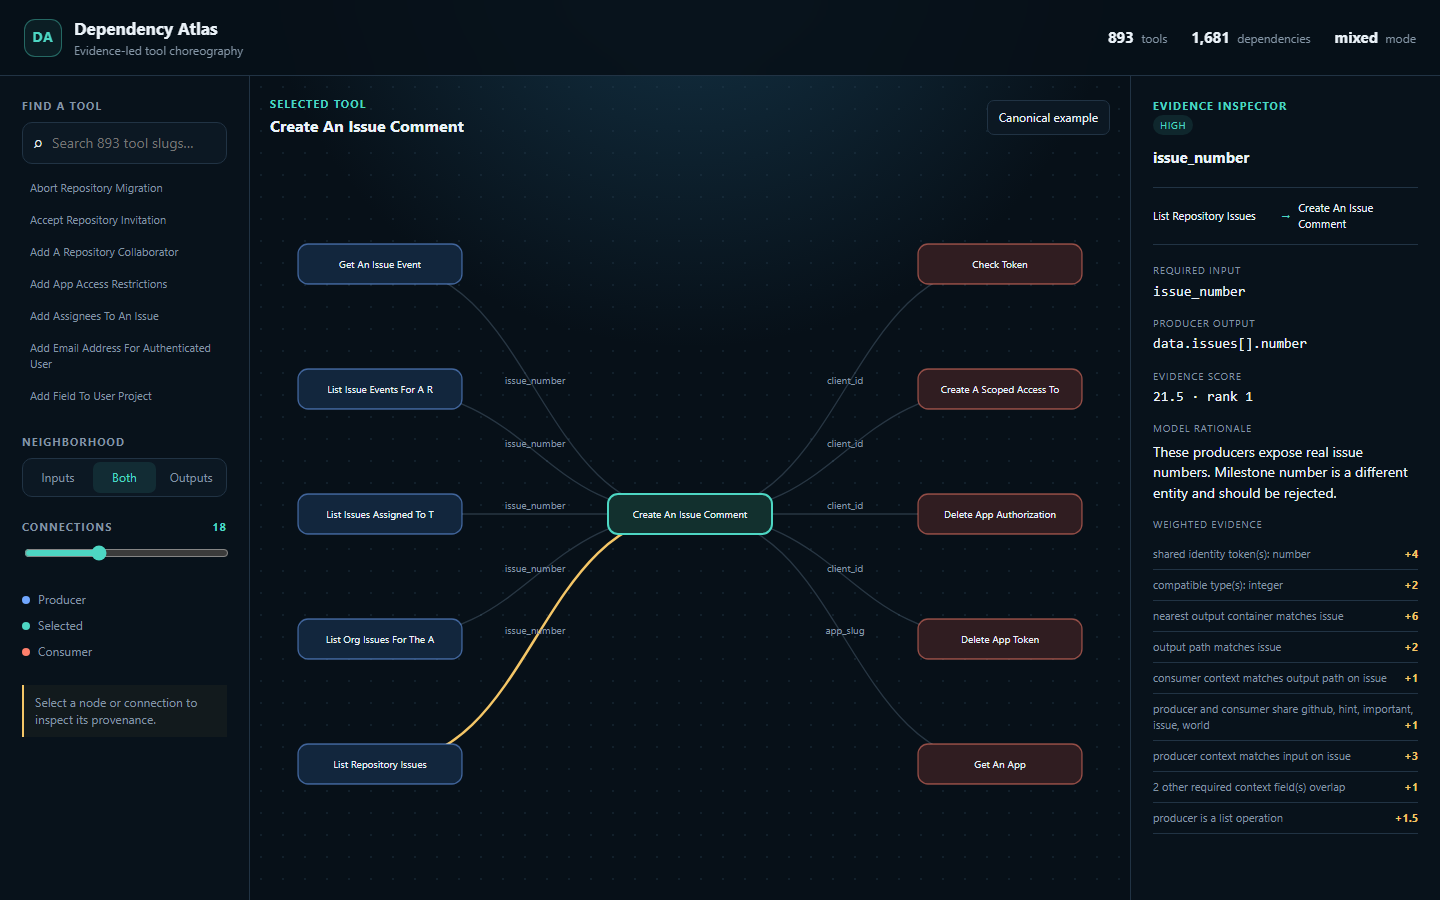
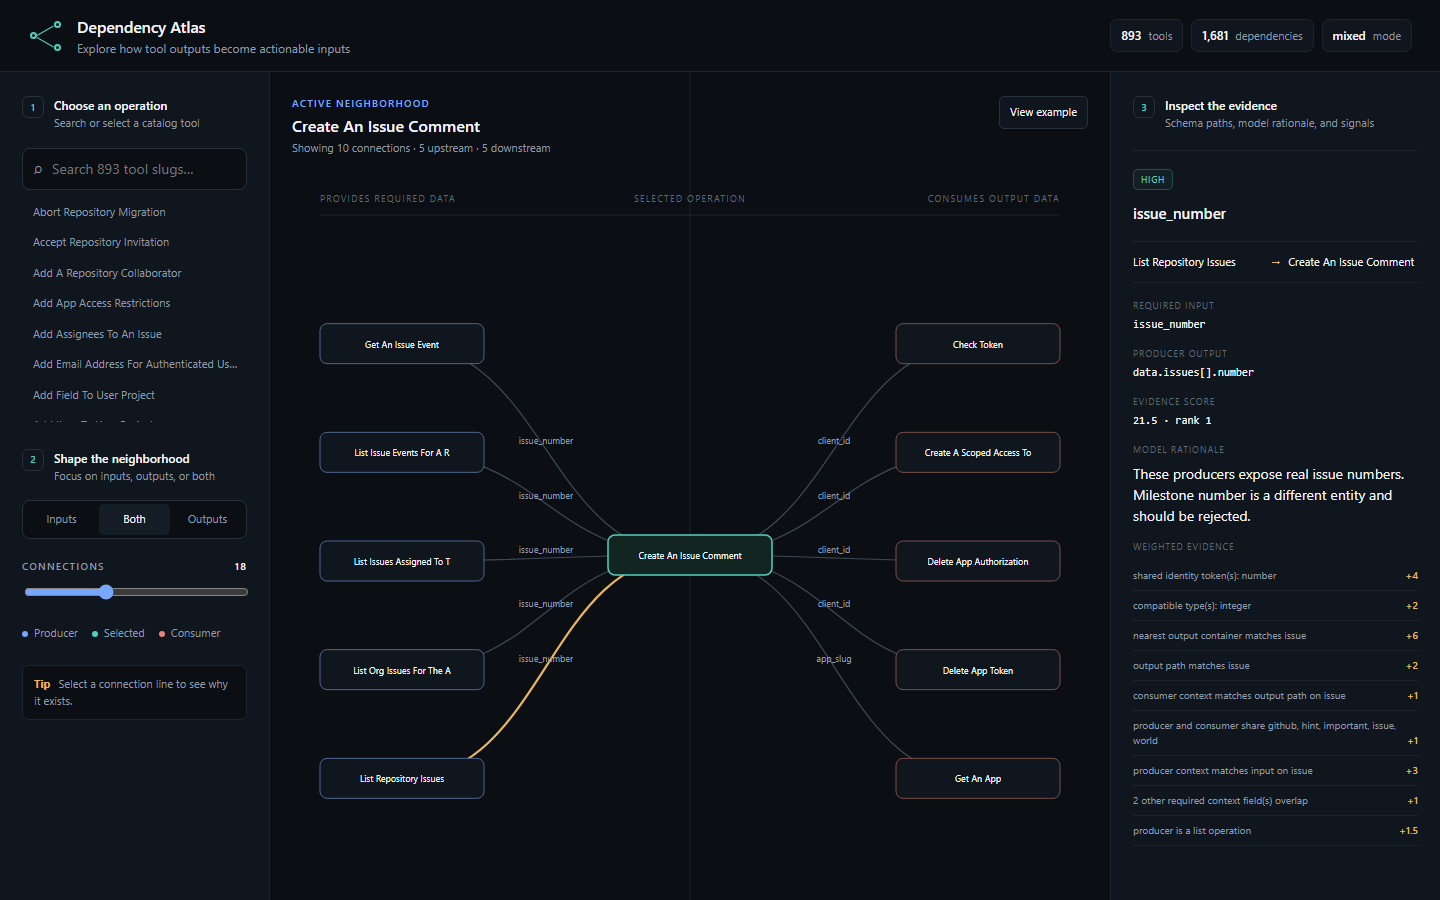
feat: refine graph explorer interaction and visual hierarchy

diff --git a/visualization/styles.css b/visualization/styles.css
@@ -1,1 +1,1 @@
-:root{color-scheme:dark;--bg:#071018;--panel:#0c1823;--panel2:#101f2c;--line:#213344;--text:#eaf2f8;--muted:#8395a5;--teal:#4dd6c3;--coral:#ff806c;--blue:#71a7ff;--gold:#f4c667}*{box-sizing:border-box}body{margin:0;background:radial-gradient(circle at 48% -10%,#15364a 0,transparent 35%),var(--bg);color:var(--text);font:14px/1.45 Inter,ui-sans-serif,system-ui,sans-serif}.shell{min-height:100vh}.topbar{height:76px;display:flex;align-items:center;justify-content:space-between;padding:0 24px;border-bottom:1px solid var(--line);background:rgba(7,16,24,.88);backdrop-filter:blur(18px)}.brand{display:flex;align-items:center;gap:12px}.mark{width:38px;height:38px;display:grid;place-items:center;border:1px solid #4dd6c366;border-radius:11px;background:#4dd6c314;color:var(--teal);font-weight:700;letter-spacing:.06em}.brand h1{font-size:17px;margin:0;font-weight:650}.brand p{margin:1px 0 0;color:var(--muted);font-size:12px}.metrics{display:flex;gap:24px;color:var(--muted);font-size:12px}.metrics b{color:var(--text);font-size:15px;margin-right:4px}.workspace{display:grid;grid-template-columns:250px minmax(420px,1fr) 310px;min-height:calc(100vh - 76px)}.rail,.inspector{padding:22px;border-right:1px solid var(--line);background:#09131caa}.inspector{border-right:0;border-left:1px solid var(--line)}label,.section-title,.eyebrow{display:block;color:var(--muted);font-size:11px;font-weight:650;text-transform:uppercase;letter-spacing:.1em;margin:0 0 8px}.search-wrap{display:flex;align-items:center;gap:8px;border:1px solid var(--line);border-radius:10px;background:var(--panel);padding:0 11px}.search-wrap:focus-within{border-color:var(--teal)}input{font:inherit;color:var(--text)}#search{width:100%;height:40px;border:0;outline:0;background:transparent}.suggestions{margin:8px 0 24px;max-height:238px;overflow:auto}.suggestions button{display:block;width:100%;border:0;background:transparent;color:var(--muted);padding:8px;text-align:left;font:inherit;font-size:11px;border-radius:7px;overflow:hidden;text-overflow:ellipsis}.suggestions button:hover,.suggestions button:focus{background:var(--panel2);color:var(--text)}.section-title{margin-top:18px}.segmented{display:grid;grid-template-columns:repeat(3,1fr);gap:3px;padding:3px;border:1px solid var(--line);border-radius:10px;background:var(--panel);margin-bottom:22px}.segmented button,#reset{border:0;border-radius:7px;padding:7px;background:transparent;color:var(--muted);font:inherit;font-size:12px;cursor:pointer}.segmented button.active{background:#4dd6c31b;color:var(--teal)}#limit{width:100%;accent-color:var(--teal)}#limit-value{float:right;color:var(--teal)}.legend{display:grid;gap:9px;margin:24px 0;color:var(--muted);font-size:12px}.dot{display:inline-block;width:8px;height:8px;border-radius:50%;margin-right:8px}.producer{background:var(--blue)}.focus{background:var(--teal)}.consumer{background:var(--coral)}.tip{border-left:2px solid var(--gold);padding:9px 11px;color:var(--muted);font-size:12px;background:#f4c6670b}.stage{position:relative;overflow:hidden;padding:20px}.stage:before{content:"";position:absolute;inset:0;background-image:radial-gradient(#294154 1px,transparent 1px);background-size:22px 22px;opacity:.32;pointer-events:none}.stage-heading{position:relative;display:flex;align-items:center;justify-content:space-between;z-index:2}.stage h2{margin:2px 0;font-size:16px;max-width:650px;overflow:hidden;text-overflow:ellipsis;white-space:nowrap}.eyebrow{margin:0;color:var(--teal)}#reset{border:1px solid var(--line);background:var(--panel);color:var(--text);padding:8px 11px}#graph{position:relative;width:100%;height:calc(100vh - 150px);min-height:520px}.edge{fill:none;stroke:#59718466;stroke-width:1.4;marker-end:url(#arrow);cursor:pointer}.edge:hover,.edge.selected{stroke:var(--gold);stroke-width:2.5}.edge-label{fill:var(--muted);font-size:10px;pointer-events:none}.node rect{stroke-width:1.3;rx:10}.node text{fill:var(--text);font-size:10px;pointer-events:none}.node{cursor:pointer}.node.producer-node rect{fill:#12263d;stroke:#71a7ff88}.node.consumer-node rect{fill:#301d21;stroke:#ff806c88}.node.focus-node rect{fill:#12302e;stroke:var(--teal);stroke-width:2}.node:hover rect{filter:brightness(1.25)}#empty{position:absolute;inset:45% 0 auto;text-align:center;color:var(--muted)}.inspector h3{margin:12px 0 6px;font-size:15px;overflow-wrap:anywhere}.inspector p{margin:6px 0}.muted{color:var(--muted)}.flow{display:grid;grid-template-columns:1fr auto 1fr;align-items:center;gap:8px;margin:18px 0;padding:12px 0;border-block:1px solid var(--line);font-size:11px;overflow-wrap:anywhere}.flow i{color:var(--teal);font-style:normal}.field{margin:14px 0}.field span{display:block;color:var(--muted);font-size:10px;text-transform:uppercase;letter-spacing:.08em}.field code{display:block;margin-top:4px;color:var(--text);overflow-wrap:anywhere}.badge{display:inline-block;padding:3px 7px;border-radius:999px;background:#4dd6c31b;color:var(--teal);font-size:10px;text-transform:uppercase;letter-spacing:.06em}.evidence{margin:8px 0 0;padding:0;list-style:none}.evidence li{padding:7px 0;border-bottom:1px solid var(--line);color:var(--muted);font-size:11px}.evidence b{float:right;color:var(--gold)}@media(max-width:980px){.workspace{grid-template-columns:220px 1fr}.inspector{grid-column:1/-1;border-left:0;border-top:1px solid var(--line)}.metrics{display:none}}@media(max-width:680px){.workspace{display:block}.rail{border-right:0;border-bottom:1px solid var(--line)}.stage{min-height:620px}.topbar{padding:0 14px}#graph{height:560px}.inspector{border-left:0}}
+:root{color-scheme:dark;--bg:#0b0f14;--surface:#10161d;--raised:#151d26;--hover:#1a2530;--border:#27313b;--border-soft:#1c252e;--text:#f2f5f7;--muted:#8e9aa6;--faint:#5e6a75;--blue:#77a7ff;--teal:#55cfbd;--amber:#e8b65d;--red:#e98279}*{box-sizing:border-box}body{margin:0;background:var(--bg);color:var(--text);font:14px/1.5 Inter,ui-sans-serif,-apple-system,BlinkMacSystemFont,"Segoe UI",sans-serif}.shell{min-height:100vh}.topbar{height:72px;display:flex;align-items:center;justify-content:space-between;padding:0 28px;border-bottom:1px solid var(--border-soft);background:var(--bg)}.brand{display:flex;align-items:center;gap:13px}.mark{position:relative;width:36px;height:36px}.mark i{position:absolute;width:7px;height:7px;border:2px solid var(--teal);border-radius:50%}.mark i:nth-child(1){left:2px;top:14px}.mark i:nth-child(2){right:3px;top:3px}.mark i:nth-child(3){right:3px;bottom:3px}.mark:before,.mark:after{content:"";position:absolute;left:9px;width:19px;height:1px;background:var(--teal);transform-origin:left}.mark:before{top:17px;transform:rotate(-30deg)}.mark:after{top:19px;transform:rotate(30deg)}.brand h1{font-size:16px;margin:0;font-weight:600;letter-spacing:-.01em}.brand p{margin:0;color:var(--muted);font-size:12px}.metrics{display:flex;gap:8px}.metrics span{padding:6px 10px;border:1px solid var(--border-soft);border-radius:7px;color:var(--muted);font-size:11px;background:var(--surface)}.metrics b{color:var(--text);font-size:12px;margin-right:4px;font-weight:600}.workspace{display:grid;grid-template-columns:270px minmax(440px,1fr) 330px;min-height:calc(100vh - 72px)}.rail,.inspector{padding:24px 22px;border-right:1px solid var(--border-soft);background:var(--surface)}.inspector{border-right:0;border-left:1px solid var(--border-soft)}.step{display:flex;align-items:flex-start;gap:10px;margin-bottom:16px}.step b{flex:0 0 22px;height:22px;display:grid;place-items:center;border:1px solid var(--border);border-radius:6px;color:var(--teal);font-size:10px;font-weight:600}.step span{display:grid;gap:1px}.step strong{font-size:12px;font-weight:600}.step small{font-size:11px;color:var(--muted)}.step.compact{margin-top:27px}.inspector-step{padding-bottom:18px;border-bottom:1px solid var(--border-soft)}label,.section-title,.eyebrow{display:block;color:var(--muted);font-size:10px;font-weight:600;text-transform:uppercase;letter-spacing:.12em;margin:0 0 8px}.sr-only{position:absolute;width:1px;height:1px;padding:0;margin:-1px;overflow:hidden;clip:rect(0,0,0,0);white-space:nowrap;border:0}.search-wrap{display:flex;align-items:center;gap:8px;border:1px solid var(--border);border-radius:8px;background:var(--bg);padding:0 11px;transition:border-color .16s,box-shadow .16s}.search-wrap:focus-within{border-color:var(--blue);box-shadow:0 0 0 3px #77a7ff18}.search-wrap span{color:var(--muted)}input{font:inherit;color:var(--text)}#search{width:100%;height:40px;border:0;outline:0;background:transparent}.suggestions{margin:7px 0 20px;max-height:225px;overflow:auto}.suggestions button{display:block;width:100%;border:0;border-left:2px solid transparent;background:transparent;color:var(--muted);padding:7px 9px;text-align:left;font:inherit;font-size:11px;overflow:hidden;text-overflow:ellipsis;white-space:nowrap;cursor:pointer}.suggestions button:hover,.suggestions button:focus{border-left-color:var(--blue);background:var(--hover);color:var(--text)}.segmented{display:grid;grid-template-columns:repeat(3,1fr);gap:2px;padding:3px;border:1px solid var(--border);border-radius:8px;background:var(--bg);margin-bottom:20px}.segmented button,#reset{border:0;border-radius:5px;padding:7px;background:transparent;color:var(--muted);font:inherit;font-size:11px;cursor:pointer;transition:background .16s,color .16s}.segmented button.active{background:var(--raised);color:var(--text)}#limit{width:100%;accent-color:var(--blue)}#limit-value{float:right;color:var(--text)}.legend{display:flex;flex-wrap:wrap;gap:8px 14px;margin:20px 0;color:var(--muted);font-size:11px}.dot{display:inline-block;width:6px;height:6px;border-radius:50%;margin-right:6px}.producer{background:var(--blue)}.focus{background:var(--teal)}.consumer{background:var(--red)}.tip{margin-top:24px;padding:10px 11px;border:1px solid var(--border-soft);border-radius:7px;color:var(--muted);font-size:11px;background:var(--bg)}.tip b{color:var(--amber);margin-right:5px}.stage{position:relative;overflow:hidden;padding:24px 22px;background:linear-gradient(90deg,transparent 49.9%,var(--border-soft) 50%,transparent 50.1%)}.stage-heading{position:relative;display:flex;align-items:flex-start;justify-content:space-between;z-index:2}.stage h2{margin:3px 0 0;font-size:16px;font-weight:600;max-width:650px;overflow:hidden;text-overflow:ellipsis;white-space:nowrap}.stage-heading p{margin:2px 0;color:var(--muted);font-size:11px}.eyebrow{margin:0;color:var(--blue)}#reset{border:1px solid var(--border);background:var(--surface);color:var(--text);padding:7px 10px}#reset:hover{background:var(--hover)}#graph{position:relative;width:100%;height:calc(100vh - 152px);min-height:520px}.lane-label{fill:var(--faint);font-size:9px;letter-spacing:.14em;text-transform:uppercase}.lane-rule{stroke:var(--border-soft);stroke-width:1}.edge{fill:none;stroke:#3d4a56;stroke-width:1.2;marker-end:url(#arrow);cursor:pointer;transition:stroke .15s,stroke-width .15s}.edge:hover,.edge.selected{stroke:var(--amber);stroke-width:2.2}.edge-label{fill:var(--muted);font-size:9px;pointer-events:none}.node rect{stroke-width:1;rx:7;transition:fill .15s,stroke .15s}.node text{fill:var(--text);font-size:9px;pointer-events:none}.node{cursor:pointer}.node.producer-node rect{fill:var(--surface);stroke:#4d6790}.node.consumer-node rect{fill:var(--surface);stroke:#7d4d4a}.node.focus-node rect{fill:#122521;stroke:var(--teal);stroke-width:1.5}.node:hover rect{fill:var(--hover);stroke:var(--text)}#empty{position:absolute;inset:46% 0 auto;text-align:center;color:var(--muted)}.inspector h3{margin:12px 0 6px;font-size:15px;font-weight:600;overflow-wrap:anywhere}.inspector p{margin:6px 0}.muted{color:var(--muted)}.flow{display:grid;grid-template-columns:1fr auto 1fr;align-items:center;gap:8px;margin:16px 0;padding:12px 0;border-block:1px solid var(--border-soft);font-size:11px;overflow-wrap:anywhere}.flow i{color:var(--amber);font-style:normal}.field{margin:14px 0}.field span{display:block;color:var(--faint);font-size:9px;text-transform:uppercase;letter-spacing:.1em}.field code{display:block;margin-top:4px;color:var(--text);overflow-wrap:anywhere;font-size:11px}.badge{display:inline-flex;align-items:center;gap:5px;padding:3px 7px;border:1px solid #55cfbd44;border-radius:5px;background:#55cfbd0d;color:var(--teal);font-size:9px;text-transform:uppercase;letter-spacing:.08em}.evidence{margin:8px 0 0;padding:0;list-style:none}.evidence li{padding:7px 0;border-bottom:1px solid var(--border-soft);color:var(--muted);font-size:10px}.evidence b{float:right;color:var(--amber);font-weight:600}@media(max-width:1050px){.workspace{grid-template-columns:235px 1fr}.inspector{grid-column:1/-1;border-left:0;border-top:1px solid var(--border-soft)}.metrics{display:none}}@media(max-width:700px){.workspace{display:block}.rail{border-right:0;border-bottom:1px solid var(--border-soft)}.stage{min-height:620px}.topbar{padding:0 16px}.brand p{display:none}#graph{height:560px}.inspector{border-left:0}}

diff --git a/visualization/app.js b/visualization/app.js
@@ -8,7 +8,7 @@ function bind(){const search=$("search");search.addEventListener("input",()=>sug
 function suggest(q){q=q.trim().toLowerCase();const ranked=state.graph.nodes.filter(n=>!q||n.id.toLowerCase().includes(q)).slice(0,10);$("suggestions").innerHTML=ranked.map(n=>`<button data-id="${esc(n.id)}">${esc(short(n.id))}</button>`).join("");$("suggestions").querySelectorAll("button").forEach(b=>b.onclick=()=>{select(b.dataset.id);$("search").value="";suggest("")})}
 function select(id){state.selected=id;state.edge=null;render()}
 function neighborhood(){const incoming=state.graph.edges.filter(e=>e.to===state.selected).slice(0,state.limit);const outgoing=state.graph.edges.filter(e=>e.from===state.selected).slice(0,state.limit);return {incoming:state.direction==="outgoing"?[]:incoming,outgoing:state.direction==="incoming"?[]:outgoing}}
-function render(){if(!state.graph)return;$("selected-title").textContent=short(state.selected);const {incoming,outgoing}=neighborhood();$("empty").hidden=incoming.length+outgoing.length>0;const svg=$("graph"),w=svg.clientWidth||720,h=svg.clientHeight||600,cx=w/2,cy=h/2;const layout=[];const place=(edges,x,kind,getId)=>edges.forEach((e,i)=>layout.push({id:getId(e),x,y:(i+1)*h/(edges.length+1),kind}));place(incoming,110,"producer-node",e=>e.from);place(outgoing,w-110,"consumer-node",e=>e.to);layout.push({id:state.selected,x:cx,y:cy,kind:"focus-node"});const pos=new Map(layout.map(n=>[n.id,n]));const all=[...incoming,...outgoing];$("edges").innerHTML=all.map((e,i)=>{const a=pos.get(e.from),b=pos.get(e.to);if(!a||!b)return"";const mid=(a.x+b.x)/2,key=`${e.from}\0${e.to}\0${e.label}`;return `<g><path class="edge ${state.edge===key?"selected":""}" data-key="${esc(key)}" d="M${a.x},${a.y} C${mid},${a.y} ${mid},${b.y} ${b.x},${b.y}"></path><text class="edge-label" x="${mid}" y="${(a.y+b.y)/2-5}" text-anchor="middle">${esc(e.label)}</text></g>`}).join("");$("nodes").innerHTML=layout.map(n=>`<g class="node ${n.kind}" data-id="${esc(n.id)}" transform="translate(${n.x-82},${n.y-20})"><rect width="164" height="40"></rect><text x="82" y="24" text-anchor="middle">${esc(short(n.id).slice(0,25))}</text></g>`).join("");$("nodes").querySelectorAll(".node").forEach(n=>n.onclick=()=>select(n.dataset.id));$("edges").querySelectorAll(".edge").forEach(p=>p.onclick=()=>{state.edge=p.dataset.key;render();inspect(all.find(e=>`${e.from}\0${e.to}\0${e.label}`===state.edge))});if(!state.edge)inspectNode(incoming,outgoing)}
+function render(){if(!state.graph)return;$("selected-title").textContent=short(state.selected);const {incoming,outgoing}=neighborhood();const visible=incoming.length+outgoing.length;$("visible-status").textContent=`Showing ${visible} connection${visible===1?"":"s"} · ${incoming.length} upstream · ${outgoing.length} downstream`;$("empty").hidden=visible>0;const svg=$("graph"),w=svg.clientWidth||720,h=svg.clientHeight||600,cx=w/2,cy=h/2;$("lane-labels").innerHTML=`<line class="lane-rule" x1="28" y1="56" x2="${w-28}" y2="56"></line><text class="lane-label" x="28" y="43">Provides required data</text><text class="lane-label" x="${cx}" y="43" text-anchor="middle">Selected operation</text><text class="lane-label" x="${w-28}" y="43" text-anchor="end">Consumes output data</text>`;const layout=[];const place=(edges,x,kind,getId)=>edges.forEach((e,i)=>layout.push({id:getId(e),x,y:76+(i+1)*(h-96)/(edges.length+1),kind}));place(incoming,110,"producer-node",e=>e.from);place(outgoing,w-110,"consumer-node",e=>e.to);layout.push({id:state.selected,x:cx,y:Math.max(100,cy+22),kind:"focus-node"});const pos=new Map(layout.map(n=>[n.id,n]));const all=[...incoming,...outgoing];$("edges").innerHTML=all.map(e=>{const a=pos.get(e.from),b=pos.get(e.to);if(!a||!b)return"";const mid=(a.x+b.x)/2,key=`${e.from}\0${e.to}\0${e.label}`;return `<g><path class="edge ${state.edge===key?"selected":""}" data-key="${esc(key)}" d="M${a.x},${a.y} C${mid},${a.y} ${mid},${b.y} ${b.x},${b.y}"></path><text class="edge-label" x="${mid}" y="${(a.y+b.y)/2-5}" text-anchor="middle">${esc(e.label)}</text></g>`}).join("");$("nodes").innerHTML=layout.map(n=>`<g class="node ${n.kind}" data-id="${esc(n.id)}" transform="translate(${n.x-82},${n.y-20})"><rect width="164" height="40"></rect><text x="82" y="24" text-anchor="middle">${esc(short(n.id).slice(0,25))}</text></g>`).join("");$("nodes").querySelectorAll(".node").forEach(n=>n.onclick=()=>select(n.dataset.id));$("edges").querySelectorAll(".edge").forEach(p=>p.onclick=()=>{state.edge=p.dataset.key;render();inspect(all.find(e=>`${e.from}\0${e.to}\0${e.label}`===state.edge))});if(!state.edge)inspectNode(incoming,outgoing)}
 function findEvidence(edge){const c=state.report.cases.find(x=>x.consumer===edge.to&&x.required_input.name===edge.label);const candidate=c?.candidates.find(x=>x.producer===edge.from);return {case:c,candidate}}
 function inspectNode(incoming,outgoing){$("inspector-content").innerHTML=`<h3>${esc(short(state.selected))}</h3><p class="muted">${incoming.length} visible input${incoming.length===1?"":"s"} · ${outgoing.length} visible output${outgoing.length===1?"":"s"}</p><div class="field"><span>Catalog slug</span><code>${esc(state.selected)}</code></div><p class="muted">Choose a labeled connection to inspect its schema evidence and adjudication.</p>`}
 function inspect(edge){if(!edge)return;const {case:c,candidate:x}=findEvidence(edge);$("inspector-content").innerHTML=`<span class="badge">${esc(x?.confidence||"catalog")}</span><h3>${esc(edge.label)}</h3><div class="flow"><span>${esc(short(edge.from))}</span><i>→</i><span>${esc(short(edge.to))}</span></div><div class="field"><span>Required input</span><code>${esc(c?.required_input.path||edge.label)}</code></div><div class="field"><span>Producer output</span><code>${esc(x?.output_path||"catalog output")}</code></div><div class="field"><span>Evidence score</span><code>${esc(x?.score??"—")} · rank ${esc(x?.rank??"—")}</code></div>${c?.rationale?`<div class="field"><span>Model rationale</span><p>${esc(c.rationale)}</p></div>`:""}<div class="field"><span>Weighted evidence</span><ul class="evidence">${(x?.evidence||[]).map(e=>`<li>${esc(e.detail)} <b>${e.weight>0?"+":""}${e.weight}</b></li>`).join("")||"<li>No detailed evidence in report.</li>"}</ul></div>`}

diff --git a/visualization/index.html b/visualization/index.html
@@ -9,32 +9,33 @@
 <body>
   <main class="shell">
     <header class="topbar">
-      <div class="brand"><span class="mark">DA</span><div><h1>Dependency Atlas</h1><p>Evidence-led tool choreography</p></div></div>
+      <div class="brand"><span class="mark"><i></i><i></i><i></i></span><div><h1>Dependency Atlas</h1><p>Explore how tool outputs become actionable inputs</p></div></div>
       <div class="metrics" aria-label="Graph summary">
         <span><b id="node-count">—</b> tools</span><span><b id="edge-count">—</b> dependencies</span><span><b id="mode">—</b> mode</span>
       </div>
     </header>
     <section class="workspace">
       <aside class="rail">
-        <label for="search">Find a tool</label>
+        <div class="step"><b>1</b><span><strong>Choose an operation</strong><small>Search or select a catalog tool</small></span></div>
+        <label for="search" class="sr-only">Find a tool</label>
         <div class="search-wrap"><span>⌕</span><input id="search" autocomplete="off" placeholder="Search 893 tool slugs…"></div>
         <div id="suggestions" class="suggestions" aria-live="polite"></div>
-        <div class="section-title">Neighborhood</div>
+        <div class="step compact"><b>2</b><span><strong>Shape the neighborhood</strong><small>Focus on inputs, outputs, or both</small></span></div>
         <div class="segmented" role="group" aria-label="Edge direction">
           <button data-direction="incoming">Inputs</button><button class="active" data-direction="both">Both</button><button data-direction="outgoing">Outputs</button>
         </div>
         <label for="limit">Connections <output id="limit-value">18</output></label>
         <input id="limit" type="range" min="6" max="40" value="18">
         <div class="legend"><span><i class="dot producer"></i>Producer</span><span><i class="dot focus"></i>Selected</span><span><i class="dot consumer"></i>Consumer</span></div>
-        <div class="tip">Select a node or connection to inspect its provenance.</div>
+        <div class="tip"><b>Tip</b> Select a connection line to see why it exists.</div>
       </aside>
       <section class="stage">
-        <div class="stage-heading"><div><span class="eyebrow">Selected tool</span><h2 id="selected-title">Loading graph…</h2></div><button id="reset">Canonical example</button></div>
-        <svg id="graph" role="img" aria-labelledby="graph-title graph-desc"><title id="graph-title">Tool dependency neighborhood</title><desc id="graph-desc">Producer tools appear to the left, the selected tool in the center, and consumer tools to the right.</desc><defs><marker id="arrow" markerWidth="8" markerHeight="8" refX="7" refY="4" orient="auto"><path d="M0,0 L8,4 L0,8 Z"></path></marker></defs><g id="edges"></g><g id="nodes"></g></svg>
+        <div class="stage-heading"><div><span class="eyebrow">Active neighborhood</span><h2 id="selected-title">Loading graph…</h2><p id="visible-status">Preparing dependency data</p></div><button id="reset">View example</button></div>
+        <svg id="graph" role="img" aria-labelledby="graph-title graph-desc"><title id="graph-title">Tool dependency neighborhood</title><desc id="graph-desc">Producer tools appear to the left, the selected tool in the center, and consumer tools to the right.</desc><defs><marker id="arrow" markerWidth="8" markerHeight="8" refX="7" refY="4" orient="auto"><path d="M0,0 L8,4 L0,8 Z"></path></marker></defs><g id="lane-labels"></g><g id="edges"></g><g id="nodes"></g></svg>
         <div id="empty" hidden>No matching dependencies in this direction.</div>
       </section>
       <aside class="inspector">
-        <span class="eyebrow">Evidence inspector</span>
+        <div class="step inspector-step"><b>3</b><span><strong>Inspect the evidence</strong><small>Schema paths, model rationale, and signals</small></span></div>
         <div id="inspector-content"><h3>Choose a connection</h3><p class="muted">Every line is backed by catalog schema evidence. Select one to see why it survived adjudication.</p></div>
       </aside>
     </section>
